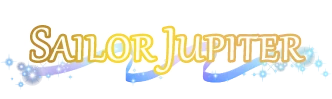
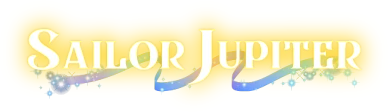
Fix selection clipping and light distribution, update 13 names and stage controls

diff --git a/Engine/select-screen.js b/Engine/select-screen.js
@@ -1,5 +1,5 @@
 import {assetUrl} from './asset-paths.js?v=02362';
-import {createLoadingScreen} from './loading-screen.js?v=loading1';
+import {createLoadingScreen} from './loading-screen.js?v=selection7';
 export function createSelectScreen(parent,api){
  const view=document.createElement('section');view.id='palaceSelection';view.hidden=true;view.style.cssText='position:absolute;inset:0;background:#05050d;z-index:2';parent.appendChild(view);
  const canvas=document.createElement('canvas');canvas.style.cssText='position:absolute;inset:0;width:100%;height:100%;z-index:1;pointer-events:none';view.appendChild(canvas);const context=canvas.getContext('2d');
@@ -8,18 +8,18 @@ export function createSelectScreen(parent,api){
  function countEntries(value){return value.file?1:Object.values(value).reduce((sum,entry)=>sum+countEntries(entry),0)}
  const hardwareValues=['3do','snes','saturn'],commandValues=['normal','auto'];
  let data,assets,stage3D,phase='p1',targetMode='vs',choices=['SailorVenus','SailorVenus'],stage='training',cursor=16,hardware=['3do','3do'],command=['normal','normal'],confirmed=new Set(),ticks=0,lastTime;
- const stageReady=(api.createStage?Promise.resolve({createSelectStage:api.createStage}):import('../Stage/Select/select-stage.js?v=loading1')).then(async module=>{const candidate=module.createSelectStage(view);if(!candidate)return;await candidate.ready;stage3D=candidate}).catch(error=>console.error('Selection 3D stage',error));
- async function loadEntries(value){if(value.file){const image=new Image();image.src=assetUrl('./'+value.file+'?v=loading1');await image.decode();loading.update(++completed/total);return {...value,image}}const result=Array.isArray(value)?[]:{};for(const key of Object.keys(value))result[key]=await loadEntries(value[key]);return result}
- const ready=Promise.all(['Data/Select/select-screen.json','Data/Select/selection-assets.json'].map(path=>fetch(assetUrl('./'+path+'?v=loading1')).then(response=>{if(!response.ok)throw Error('Selection data '+path);return response.json()}))).then(async ([config,manifest])=>{total=countEntries(config.background)+countEntries(manifest)+1;data={...config,background:await loadEntries(config.background)};assets=await loadEntries(manifest);await stageReady;loading.update(1);loaded=true;loading.hide();render()}).catch(error=>{loadError=error;if(!view.hidden)loading.fail(error,()=>{hide();api.back()});throw error});
+ const stageReady=(api.createStage?Promise.resolve({createSelectStage:api.createStage}):import('../Stage/Select/select-stage.js?v=selection7')).then(async module=>{const candidate=module.createSelectStage(view);if(!candidate)return;await candidate.ready;stage3D=candidate}).catch(error=>console.error('Selection 3D stage',error));
+ async function loadEntries(value){if(value.file){const image=new Image();image.src=assetUrl('./'+value.file+'?v=selection7');await image.decode();loading.update(++completed/total);return {...value,image}}const result=Array.isArray(value)?[]:{};for(const key of Object.keys(value))result[key]=await loadEntries(value[key]);return result}
+ const ready=Promise.all(['Data/Select/select-screen.json','Data/Select/selection-assets.json'].map(path=>fetch(assetUrl('./'+path+'?v=selection7')).then(response=>{if(!response.ok)throw Error('Selection data '+path);return response.json()}))).then(async ([config,manifest])=>{total=countEntries(config.background)+countEntries(manifest)+1;data={...config,background:await loadEntries(config.background)};assets=await loadEntries(manifest);await stageReady;loading.update(1);loaded=true;loading.hide();render()}).catch(error=>{loadError=error;if(!view.hidden)loading.fail(error,()=>{hide();api.back()});throw error});
  function player(){return phase.startsWith('p2')?1:0}
  function selectPlayer(target){phase='p'+(target+1);cursor=data.cells.findIndex(cell=>cell.id===choices[target]&&cell.available);render()}
  function discPosition(entry){if(!stage3D)return entry;const focal=360/Math.tan(Math.PI/12),scale=Math.sqrt((8*8-1.4*1.4)/(7.2*7.2-1.4*1.4)),previousY=360-.2/8*focal,nextY=360-.15/7.2*focal;return {x:640+(entry.x-640)*scale,y:nextY+(entry.y-previousY)*scale,w:entry.w*scale,h:entry.h*scale}}
- function draw(){if(!assets||view.hidden)return;canvas.width=Math.round(innerWidth*devicePixelRatio);canvas.height=Math.round(innerHeight*devicePixelRatio);const fit=Math.min(innerWidth/1280,innerHeight/720);context.setTransform(devicePixelRatio,0,0,devicePixelRatio,0,0);context.clearRect(0,0,innerWidth,innerHeight);if(!stage3D){context.fillStyle='#05050d';context.fillRect(0,0,innerWidth,innerHeight)}context.translate((innerWidth-1280*fit)/2,(innerHeight-720*fit)/2);context.scale(fit,fit);
+ function draw(){if(!assets||view.hidden)return;canvas.width=Math.round(innerWidth*devicePixelRatio);canvas.height=Math.round(innerHeight*devicePixelRatio);const fit=Math.min(innerWidth/1280,innerHeight/720);context.setTransform(devicePixelRatio,0,0,devicePixelRatio,0,0);context.clearRect(0,0,innerWidth,innerHeight);if(!stage3D){context.fillStyle='#05050d';context.fillRect(0,0,innerWidth,innerHeight)}context.translate((innerWidth-1280*fit)/2,(innerHeight-720*fit)/2);context.scale(fit,fit);context.beginPath();context.rect(0,0,1280,720);context.clip();
   for(const key of stage3D?['2200,0']:['2000,0','2001,0','2200,0']){const layer=data.background.find(entry=>entry.key===key);if(layer)context.drawImage(layer.image,640-layer.axisX,-layer.axisY)}
   for(const [identifier,entry] of Object.entries(assets.characters)){if(entry.disc){context.save();context.globalAlpha=data.cells.some(cell=>cell.id===identifier&&cell.available)?1:.4;const position=discPosition(entry.disc);context.drawImage(entry.disc.image,position.x,position.y,position.w,position.h);context.restore()}}
   stage3D?.drawSurfaceGlares(context);
-  for(const target of [0,1]){const entry=assets.characters[choices[target]],position=data.settings['p'+(target+1)+'.face.offset'].split(',').map(Number),anchor=position[0];for(const kind of ['portrait','name']){const item=entry[kind];if(item)context.drawImage(item.image,anchor-640+item.x,kind==='portrait'?item.y+position[1]:580+(52.5-item.h)/2,item.w,item.h)}}
-  const title=assets.stages[({training:'Training',moon:'MPalace',mercury:'Library',mars:'Shrine',pluto:'SDoor',swatheshia:'SThrone'}[stage])];if(phase==='stage'&&title){const item=title[String(Math.floor(ticks/4)%2)]||title['0'];context.drawImage(item.image,item.x,item.y,item.w,item.h)}
+  for(const target of [0,1]){const entry=assets.characters[choices[target]],position=data.settings['p'+(target+1)+'.face.offset'].split(',').map(Number),anchor=position[0];for(const kind of ['portrait','name']){const item=entry[kind];if(item)context.drawImage(item.image,kind==='name'?anchor-item.w/2:anchor-640+item.x,kind==='portrait'?item.y+position[1]:580+(52.5-item.h)/2,item.w,item.h)}}
+  const title=stageTitle();if(phase==='stage'&&title){const item=title[String(Math.floor(ticks/4)%2)]||title['0'];context.drawImage(item.image,item.x,item.y,item.w,item.h)}
  }
  function button(label,handler,style=''){const element=document.createElement('button');element.type='button';element.textContent=label;element.style.cssText='position:absolute;border:1px solid #e4ca81;background:#0a163be8;color:#fff;border-radius:8px;font:18px system-ui;padding:6px;'+style;element.addEventListener('click',handler);controls.appendChild(element);return element}
  function artworkButton(key,label,handler,left,top,scale=.75){const entry=assets.buttons[key],width=entry.w*scale,height=entry.h*scale;const element=button('',handler,'left:'+(left-width/2)+'px;top:'+top+'px;width:'+width+'px;height:'+height+'px;background:transparent;border:0;padding:0;touch-action:manipulation;transition:transform 80ms');element.setAttribute('aria-label',label);const image=document.createElement('img');image.src=entry.image.src;image.alt=label;image.draggable=false;image.style.cssText='width:100%;height:100%;pointer-events:none';element.appendChild(image);element.addEventListener('pointerdown',event=>{if(element.disabled)return;element.style.transform='scale(.9)';element.setPointerCapture(event.pointerId)});for(const event of ['pointerup','pointercancel','lostpointercapture','blur'])element.addEventListener(event,()=>{element.style.transform='scale(1)'});return element}
@@ -30,17 +30,19 @@ export function createSelectScreen(parent,api){
  function back(){if(phase==='stage'){confirmed.delete(targetMode==='training'?0:1);phase=targetMode==='training'?'p1command':'p2command'}else if(phase.endsWith('command'))phase='p'+(player()+1)+'hardware';else if(phase.endsWith('hardware'))phase='p'+(player()+1);else if(player()===1){confirmed.delete(0);phase='p1command'}else{hide();api.back();return}ticks=0;render()}
  function choose(value,target=player(),kind){if(confirmed.has(target)&&phase!=='stage')return;if(kind==='hardware'||(!kind&&phase.endsWith('hardware')))hardware[target]=value;else if(kind==='command'||(!kind&&phase.endsWith('command')))command[target]=value;else if(phase==='stage')stage=value;else{if(!data.cells[value]?.available)return;cursor=value;choices[target]=data.cells[value].id}ticks=0;render()}
  function cycle(target,kind){const values=kind==='hardware'?hardwareValues:commandValues,current=kind==='hardware'?hardware[target]:command[target];choose(values[(values.indexOf(current)+1)%values.length],target,kind)}
+ function stageTitle(){return assets.stages[({training:'Training',moon:'MPalace',mercury:'Library',mars:'Shrine',pluto:'SDoor',swatheshia:'SThrone'}[stage])]}
+ function cycleStage(direction){const values=data.stages.filter(entry=>entry.available).map(entry=>entry.id);choose(values[(values.indexOf(stage)+direction+values.length)%values.length])}
  function render(){if(view.hidden)return;controls.replaceChildren();if(!loaded)return;
   if(phase!=='stage'){
    for(const target of targetMode==='training'?[0]:[0,1]){const anchor=Number(data.settings['p'+(target+1)+'.face.offset'].split(',')[0]);button('',()=>selectPlayer(target),'left:'+(anchor-170)+'px;top:100px;width:340px;height:390px;background:transparent;border:0').setAttribute('aria-label',target?'Select right character':'Select left character');for(const [kind,key,column] of [['hardware',hardware[target],0],['command',command[target],1]]){const element=artworkButton(key,'P'+(target+1)+' '+kind,()=>cycle(target,kind),anchor-100+column*200,555-assets.buttons[key].h*.675/2,.675);element.id=kind+'Selection'+target;element.disabled=confirmed.has(target);element.style.filter=confirmed.has(target)?'grayscale(.5)':phase==='p'+(target+1)+kind?'drop-shadow(0 0 8px white)':'none'}const element=artworkButton(targetMode==='training'?'next':'confirm','P'+(target+1)+' '+(targetMode==='training'?'Next':'Confirm'),()=>targetMode==='training'?next():touchConfirm(target),anchor,655);element.id='confirmSelection'+target;element.style.filter=confirmed.has(target)?'grayscale(.5)':'none';element.setAttribute('aria-pressed',String(confirmed.has(target)))}
    for(const [index,cell] of data.cells.entries()){const sourceDisc=assets.characters[cell.id]?.disc;if(!sourceDisc)continue;const disc=discPosition(sourceDisc);const element=button('',()=>choose(index,player(),'character'),'left:'+disc.x+'px;top:'+disc.y+'px;width:'+disc.w+'px;height:'+disc.h+'px;background:transparent;padding:0');element.dataset.character=cell.id;element.disabled=!cell.available||confirmed.has(player());element.title=cell.id+(cell.available?'':' · 未開放');element.style.border='none'}
 
-  }else{data.stages.forEach((entry,index)=>{const element=button(entry.name,()=>choose(entry.id),'left:480px;top:'+(180+index*57)+'px;width:320px;height:46px');element.dataset.stage=entry.id;element.disabled=!entry.available});artworkButton('next','Start Fight',confirm,710,610).id='startSelection'}
+  }else{const title=stageTitle(),item=title?.['0'];if(item){const element=button('',()=>cycleStage(1),'left:'+item.x+'px;top:'+item.y+'px;width:'+item.w+'px;height:'+item.h+'px;background:transparent;border:0;padding:0');element.id='stageTitleSelection';element.setAttribute('aria-label','Change stage')}artworkButton('next','Next',confirm,640,610).id='startSelection'}
   button('EXIT',()=>{hide();api.back()},'left:20px;top:20px;width:100px').id='exitSelection';resize();
  }
  function show(mode){targetMode=mode;phase='p1';confirmed.clear();hardware=['3do','3do'];command=['normal','normal'];choices=['SailorVenus','SailorVenus'];stage='training';cursor=data?.cells.findIndex(entry=>entry.available)??16;ticks=0;lastTime=undefined;view.hidden=false;if(!loaded){loading.show();loading.update(completed/total);if(loadError)loading.fail(loadError,()=>{hide();api.back()})}stage3D?.setVisible(true);render()}
  function hide(){view.hidden=true;loading.hide();lastTime=undefined;stage3D?.setVisible(false)}
- function handleKey(event){if(view.hidden)return false;if(!loaded)return true;if(['Escape','KeyX','KeyS','Numpad2','NumpadDecimal'].includes(event.code)){if(!event.repeat)back();return true}if(['Enter','KeyZ','KeyA','Numpad1','Numpad0'].includes(event.code)){if(!event.repeat)confirm();return true}if(['ArrowLeft','ArrowRight','ArrowUp','ArrowDown','Numpad4','Numpad6','Numpad8','Numpad5'].includes(event.code)){if(assets){const modePhase=phase.endsWith('hardware')||phase.endsWith('command');if(modePhase&&!['ArrowUp','ArrowDown','Numpad8','Numpad5'].includes(event.code))return true;const direction=['ArrowLeft','ArrowUp','Numpad4','Numpad8'].includes(event.code)?-1:1,values=phase==='stage'?data.stages.filter(entry=>entry.available).map(entry=>entry.id):phase.endsWith('hardware')?hardwareValues:phase.endsWith('command')?commandValues:data.cells.map((entry,index)=>entry.available?index:-1).filter(index=>index>=0),current=phase==='stage'?stage:phase.endsWith('hardware')?hardware[player()]:phase.endsWith('command')?command[player()]:cursor;choose(values[(values.indexOf(current)+direction+values.length)%values.length])}return true}return false}
+ function handleKey(event){if(view.hidden)return false;if(!loaded)return true;if(['Escape','KeyX','KeyS','Numpad2','NumpadDecimal'].includes(event.code)){if(!event.repeat)back();return true}if(['Enter','KeyZ','KeyA','Numpad1','Numpad0'].includes(event.code)){if(!event.repeat)confirm();return true}if(['ArrowLeft','ArrowRight','ArrowUp','ArrowDown','Numpad4','Numpad6','Numpad8','Numpad5'].includes(event.code)){if(assets){if(phase==='stage'){if(['ArrowLeft','ArrowRight','Numpad4','Numpad6'].includes(event.code))cycleStage(['ArrowLeft','Numpad4'].includes(event.code)?-1:1);return true}const modePhase=phase.endsWith('hardware')||phase.endsWith('command');if(modePhase&&!['ArrowUp','ArrowDown','Numpad8','Numpad5'].includes(event.code))return true;const direction=['ArrowLeft','ArrowUp','Numpad4','Numpad8'].includes(event.code)?-1:1,values=phase==='stage'?data.stages.filter(entry=>entry.available).map(entry=>entry.id):phase.endsWith('hardware')?hardwareValues:phase.endsWith('command')?commandValues:data.cells.map((entry,index)=>entry.available?index:-1).filter(index=>index>=0),current=phase==='stage'?stage:phase.endsWith('hardware')?hardware[player()]:phase.endsWith('command')?command[player()]:cursor;choose(values[(values.indexOf(current)+direction+values.length)%values.length])}return true}return false}
  function animate(time){if(!view.hidden){const dt=lastTime===undefined?0:Math.min((time-lastTime)/1000,.05);ticks+=dt*60;lastTime=time;stage3D?.setVisible(true);stage3D?.render(dt);draw()}requestAnimationFrame(animate)}requestAnimationFrame(animate);window.addEventListener('resize',resize);
  return {ready,show,hide,handleKey,draw,snapshot:()=>({phase,mode:targetMode,players:[...choices],hardware:[...hardware],command:[...command],confirmed:[...confirmed],stage,visible:!view.hidden,effects:stage3D?.snapshot()})};
 }

diff --git a/Stage/Select/select-stage.js b/Stage/Select/select-stage.js
@@ -1,7 +1,7 @@
 import * as THREE from 'three';
 import {GLTFLoader} from 'three/addons/loaders/GLTFLoader.js';
 import {assetUrl} from '../../Engine/asset-paths.js?v=02362';
-import {effectPulse} from './select-effects-timing.js?v=selection6';
+import {effectPulse} from './select-effects-timing.js?v=selection7';
 
 export function createSelectStage(parent){
  const renderer=new THREE.WebGLRenderer({antialias:true,powerPreference:'low-power'});renderer.setPixelRatio(Math.min(devicePixelRatio,1.5));renderer.outputColorSpace=THREE.SRGBColorSpace;renderer.domElement.id='selectStage3D';renderer.domElement.style.cssText='position:absolute;pointer-events:none';parent.appendChild(renderer.domElement);
@@ -21,11 +21,11 @@ export function createSelectStage(parent){
   surfaceGlares.push({x:-1.06,y:.83,size:195,phase:0},{x:.85,y:-.86,size:126,phase:2.1});
   const count=96,seeds=new Float32Array(count*3),sizes=new Float32Array(count),kinds=new Float32Array(count);for(let index=0;index<count;index++){seeds[index*3]=((index*0.61803398875)%1)*11-5.5;seeds[index*3+1]=(index*0.38196601125)%1;seeds[index*3+2]=((index*0.754877666)%1)*2-1;const variation=(index*0.41421356)%1;sizes[index]=(3+variation*5)*(0.55+((index*0.73205081)%1)*1.1);kinds[index]=index%3===0?0:1}
   const geometry=new THREE.BufferGeometry();geometry.setAttribute('position',new THREE.BufferAttribute(seeds,3));geometry.setAttribute('pointSize',new THREE.BufferAttribute(sizes,1));geometry.setAttribute('pointKind',new THREE.BufferAttribute(kinds,1));
-  const material=new THREE.ShaderMaterial({uniforms:{time:{value:0},pixelRatio:{value:renderer.getPixelRatio()},viewportScale:{value:1},viewportHeight:{value:720},particleScale:{value:2}},vertexShader:'uniform float time;uniform float pixelRatio;uniform float viewportScale;uniform float viewportHeight;uniform float particleScale;attribute float pointSize;attribute float pointKind;varying float brightness;varying float kind;varying float impactLevel;void main(){float phase=fract(position.y+time*(0.085+pointSize*0.003));float travel=min(phase/0.82,1.0);vec3 point=vec3(position.x+sin(position.y*6.283+travel*2.0)*0.08,5.4,position.z+0.4);float impact=smoothstep(0.82,0.89,phase);impactLevel=impact;brightness=smoothstep(0.0,0.06,phase)*(1.0-smoothstep(0.90,1.0,phase));kind=pointKind;vec4 projected=modelViewMatrix*vec4(point,1.0);gl_Position=projectionMatrix*projected;float landingInset=20.0+40.0*fract(sin(position.y*127.1+position.x*311.7)*43758.5453);gl_Position.y=mix(gl_Position.y,(-1.0+2.0*landingInset/viewportHeight)*gl_Position.w,travel);gl_Position.x=clamp(gl_Position.x/gl_Position.w,-0.94,0.94)*gl_Position.w;gl_PointSize=pointSize*particleScale*pixelRatio*viewportScale*(1.0+(1.0-pointKind)*impact*1.5);}',fragmentShader:'varying float brightness;varying float kind;void main(){vec2 point=gl_PointCoord-0.5;float radius=length(point);float angle=atan(point.y,point.x);float core=exp(-radius*radius*65.0);float glow=exp(-radius*radius*18.0)*0.3;float tip=0.045+0.43*pow(abs(cos(angle*4.0)),24.0);float star=(1.0-smoothstep(tip*0.5,tip,radius))*(1.0-smoothstep(0.02,0.49,radius));float alpha=mix(core+glow,star+glow*0.3,kind);gl_FragColor=vec4(vec3(0.72,0.94,1.0),alpha*brightness*0.8);}',transparent:true,blending:THREE.AdditiveBlending,depthWrite:false,toneMapped:false});particles=new THREE.Points(geometry,material);particles.frustumCulled=false;particles.name='SelectionFallingLights';scene.add(particles);
+  const material=new THREE.ShaderMaterial({uniforms:{time:{value:0},pixelRatio:{value:renderer.getPixelRatio()},viewportScale:{value:1},viewportHeight:{value:720},particleScale:{value:2}},vertexShader:'uniform float time;uniform float pixelRatio;uniform float viewportScale;uniform float viewportHeight;uniform float particleScale;attribute float pointSize;attribute float pointKind;varying float brightness;varying float kind;varying float impactLevel;void main(){float phase=fract(position.y+time*(0.085+pointSize*0.003));float travel=min(phase/0.82,1.0);vec3 point=vec3(position.x+sin(position.y*6.283+travel*2.0)*0.08,5.4,position.z+0.4);float impact=smoothstep(0.82,0.89,phase);impactLevel=impact;brightness=smoothstep(0.0,0.06,phase)*(1.0-smoothstep(0.90,1.0,phase));kind=pointKind;vec4 projected=modelViewMatrix*vec4(point,1.0);gl_Position=projectionMatrix*projected;float landingInset=20.0+40.0*fract(sin(position.y*127.1+position.x*311.7)*43758.5453);gl_Position.y=mix(gl_Position.y,(-1.0+2.0*landingInset/viewportHeight)*gl_Position.w,travel);gl_Position.x=(position.x/5.5*0.90+sin(position.y*6.283+travel*2.0)*0.008)*gl_Position.w;gl_PointSize=pointSize*particleScale*pixelRatio*viewportScale*(1.0+(1.0-pointKind)*impact*1.5);}',fragmentShader:'varying float brightness;varying float kind;void main(){vec2 point=gl_PointCoord-0.5;float radius=length(point);float angle=atan(point.y,point.x);float core=exp(-radius*radius*65.0);float glow=exp(-radius*radius*18.0)*0.3;float tip=0.045+0.43*pow(abs(cos(angle*4.0)),24.0);float star=(1.0-smoothstep(tip*0.5,tip,radius))*(1.0-smoothstep(0.02,0.49,radius));float alpha=mix(core+glow,star+glow*0.3,kind);gl_FragColor=vec4(vec3(0.72,0.94,1.0),alpha*brightness*0.8);}',transparent:true,blending:THREE.AdditiveBlending,depthWrite:false,toneMapped:false});particles=new THREE.Points(geometry,material);particles.frustumCulled=false;particles.name='SelectionFallingLights';scene.add(particles);
   const haloMaterial=new THREE.ShaderMaterial({uniforms:material.uniforms,vertexShader:material.vertexShader.replace('(1.0+(1.0-pointKind)*impact*1.5)','(1.0+impact*2.0)').replace('gl_PointSize=pointSize','gl_PointSize=2.4*pointSize'),fragmentShader:'varying float brightness;varying float impactLevel;void main(){float radius=length(gl_PointCoord-0.5);float halo=exp(-radius*radius*22.0)*(1.0-smoothstep(0.35,0.50,radius));gl_FragColor=vec4(vec3(0.48,0.83,1.0),halo*brightness*0.32*(1.0+impactLevel*1.6));}',transparent:true,blending:THREE.AdditiveBlending,depthWrite:false,toneMapped:false});particleHalos=new THREE.Points(geometry,haloMaterial);particleHalos.frustumCulled=false;particleHalos.name='SelectionAirborneLightHalos';particleHalos.renderOrder=6;particles.renderOrder=7;scene.add(particleHalos);
  }
  function resize(){if(!camera)return;const fit=Math.min(innerWidth/1280,innerHeight/720),width=1280*fit,height=720*fit;renderer.setSize(width,height,false);Object.assign(renderer.domElement.style,{width:width+'px',height:height+'px',left:(innerWidth-width)/2+'px',top:(innerHeight-height)/2+'px'});camera.aspect=width/height;camera.updateProjectionMatrix();if(particles){particles.material.uniforms.viewportScale.value=fit;particles.material.uniforms.viewportHeight.value=height}}
- const ready=Promise.all([new THREE.TextureLoader().loadAsync(assetUrl('./Stage/Select/background.webp?v=selection6')),fetch(assetUrl('./Stage/Select/select-stage.json?v=selection6')).then(response=>{if(!response.ok)throw Error('Select stage settings');return response.json()}),fetch(assetUrl('./Stage/Select/Select.glb.gz?v=selection6')).then(response=>{if(!response.ok)throw Error('Select stage model');return new Response(response.body.pipeThrough(new DecompressionStream('gzip'))).arrayBuffer()})]).then(async ([background,config,buffer])=>{background.colorSpace=THREE.SRGBColorSpace;scene.background=background;settings=config;camera=new THREE.PerspectiveCamera(config.fov,16/9,.01,1000);camera.position.fromArray(config.cameraPosition);const model=await new GLTFLoader().parseAsync(buffer,'./');scene.add(model.scene);sphere=model.scene.getObjectByName(config.target);if(!sphere)model.scene.traverse(node=>{if(node.userData.name===config.target)sphere=node});if(!sphere)throw Error('Selection Sphere.004 missing');model.scene.traverse(node=>{if(!node.isMesh)return;for(const material of Array.isArray(node.material)?node.material:[node.material]){if(/^sky/i.test(node.name))material.depthWrite=false;if(node===sphere)material.side=THREE.FrontSide}});mixer=new THREE.AnimationMixer(model.scene);for(const clip of model.animations)mixer.clipAction(clip).play();addEffects();resize();render(0)});
+ const ready=Promise.all([new THREE.TextureLoader().loadAsync(assetUrl('./Stage/Select/background.webp?v=selection7')),fetch(assetUrl('./Stage/Select/select-stage.json?v=selection7')).then(response=>{if(!response.ok)throw Error('Select stage settings');return response.json()}),fetch(assetUrl('./Stage/Select/Select.glb.gz?v=selection7')).then(response=>{if(!response.ok)throw Error('Select stage model');return new Response(response.body.pipeThrough(new DecompressionStream('gzip'))).arrayBuffer()})]).then(async ([background,config,buffer])=>{background.colorSpace=THREE.SRGBColorSpace;scene.background=background;settings=config;camera=new THREE.PerspectiveCamera(config.fov,16/9,.01,1000);camera.position.fromArray(config.cameraPosition);const model=await new GLTFLoader().parseAsync(buffer,'./');scene.add(model.scene);sphere=model.scene.getObjectByName(config.target);if(!sphere)model.scene.traverse(node=>{if(node.userData.name===config.target)sphere=node});if(!sphere)throw Error('Selection Sphere.004 missing');model.scene.traverse(node=>{if(!node.isMesh)return;for(const material of Array.isArray(node.material)?node.material:[node.material]){if(/^sky/i.test(node.name))material.depthWrite=false;if(node===sphere)material.side=THREE.FrontSide}});mixer=new THREE.AnimationMixer(model.scene);for(const clip of model.animations)mixer.clipAction(clip).play();addEffects();resize();render(0)});
  const center=new THREE.Vector3();
  function render(dt){if(!camera||!mixer)return;accumulator+=Math.max(0,dt);const steps=Math.floor((accumulator+1e-9)*30);if(!steps&&renderedFrames)return;const elapsed=steps/30;accumulator-=elapsed;time+=elapsed;mixer.update(elapsed);sphere.getWorldPosition(center);effects.position.copy(center);for(const mesh of [innerGlow,outerGlow,glare,...rearGlares]){mesh.quaternion.copy(camera.quaternion);mesh.material.uniforms.time.value=time}glare.material.uniforms.beamStrength.value=Array.from({length:7},(_,index)=>effectPulse(Math.round(time*60),index));rearGlares[0].material.uniforms.flareAlpha.value=effectPulse(Math.round(time*60),2,'star');rearGlares[0].position.x=1.12-20*(camera.position.z-center.z+.65)/(360/Math.tan(THREE.MathUtils.degToRad(settings.fov/2)));innerGlow.position.z=.12;innerGlow.renderOrder=10;outerGlow.position.z=.1;outerGlow.renderOrder=11;glare.position.z=-1.6;glare.renderOrder=5;glare.material.depthTest=false;particles.material.uniforms.time.value=time;renderer.render(scene,camera);renderedFrames++}
  function drawSurfaceGlares(context){if(!camera||!sphere)return;for(const flare of surfaceGlares){const point=center.clone().add(new THREE.Vector3(flare.x,flare.y,Math.sqrt(Math.max(0,1.4*1.4-flare.x*flare.x-flare.y*flare.y))+.04)).project(camera),x=(point.x+1)*640,y=(1-point.y)*360,pulse=effectPulse(Math.round(time*60),surfaceGlares.indexOf(flare),'star'),radius=flare.size/2;context.save();context.translate(x,y);context.globalAlpha=pulse;context.globalCompositeOperation='lighter';const halo=context.createRadialGradient(0,0,0,0,0,radius*.95);halo.addColorStop(0,'rgba(255,255,255,0.95)');halo.addColorStop(.12,'rgba(210,245,255,0.65)');halo.addColorStop(1,'rgba(150,225,255,0)');context.fillStyle=halo;context.fillRect(-radius,-radius,radius*2,radius*2);context.beginPath();for(let index=0;index<16;index++){const angle=index*Math.PI/8-Math.PI/2,length=index%2?radius*.055:radius*(index%4===0?1:.65),pointX=Math.cos(angle)*length,pointY=Math.sin(angle)*length;if(!index)context.moveTo(pointX,pointY);else context.lineTo(pointX,pointY)}context.closePath();context.fillStyle='rgba(235,250,255,0.9)';context.fill();context.restore()}}

diff --git a/index.html b/index.html
@@ -50,7 +50,7 @@ import {createFightHud} from './Engine/fight-hud-runtime.js?v=02362';
 import {createScoreRuntime} from './Engine/score-runtime.js?v=02362';
 import {createRoundFlow} from './Engine/round-flow-runtime.js?v=02362';
 import {createRoundView} from './Engine/round-flow-view.js?v=02362';
-import {createPalaceMenu} from './Engine/palace-menu.js?v=loading1';
+import {createPalaceMenu} from './Engine/palace-menu.js?v=selection7';
 const fightHud=createFightHud();fightHud.ready.catch(error=>showRuntimeError(error));
 const timerMode=document.createElement('select');timerMode.id='timerMode';timerMode.title='Training timer';timerMode.innerHTML='<option value="infinite">Timer ∞</option><option value="99">Timer 99</option>';document.querySelector('#inputPanel').appendChild(timerMode);timerMode.addEventListener('change',()=>{fightHud.setMode(timerMode.value);timerMode.blur()});
 for(let seconds=15;seconds<99;seconds++){const option=document.createElement('option');option.value=String(seconds);option.textContent='Timer '+seconds;timerMode.appendChild(option)}

diff --git a/Engine/palace-menu.js b/Engine/palace-menu.js
@@ -1,7 +1,7 @@
 import {assetUrl} from './asset-paths.js?v=02362';
 import {createTitleStage} from '../Stage/Title/title-stage.js?v=02362-camera2';
 import {createLogoIntro} from '../Data/Logo/logo-intro.js?v=loading1';
-import {createSelectScreen} from './select-screen.js?v=loading1';
+import {createSelectScreen} from './select-screen.js?v=selection7';
 import {createLoadingScreen} from './loading-screen.js?v=loading1';
 
 export function createPalaceMenu(api){

diff --git a/Tools/export_selection_assets.py b/Tools/export_selection_assets.py
@@ -14,8 +14,8 @@ def export(path, destination):
     image.crop(bounds).save(destination, format='WEBP', quality=90, method=6)
     return {'file': destination.relative_to(root).as_posix(), 'x': bounds[0], 'y': bounds[1], 'w': bounds[2]-bounds[0], 'h': bounds[3]-bounds[1]}
 
-for name in ['Moon', 'CMoon', 'Mercury', 'Mars', 'Jupiter', 'Venus', 'Uranus', 'Neptune', 'Pluto', 'Saturn', 'Swatheshia']:
-    identifier = 'LadySwatheshia' if name == 'Swatheshia' else 'SailorChibiMoon' if name == 'CMoon' else 'Sailor'+name
+for name in ['Moon', 'CMoon', 'Mercury', 'Mars', 'Jupiter', 'Venus', 'Uranus', 'Neptune', 'Pluto', 'Saturn', 'Swatheshia', 'SMoon', 'TMask']:
+    identifier = {'Swatheshia': 'LadySwatheshia', 'CMoon': 'SailorChibiMoon', 'SMoon': 'SailorSuperMoon', 'TMask': 'TuxedoMask'}.get(name, 'Sailor'+name)
     entries = {}
     for kind, filename in [('portrait', 'Portrait '+('Nep' if name == 'Neptune' else name)+'.png'), ('name', 'Name '+name+'.png'), ('disc', name+'900000.png')]:
         path = source / filename

diff --git a/Docs/selection-assets.md b/Docs/selection-assets.md
@@ -8,7 +8,9 @@ Hardware/command buttons use 90% of their previous 0.75 display scale (0.675) an
 
 Keyboard order: P1 character → hardware → command, then P2 character → hardware → command in VS/Watch, then stage. Training proceeds from P1 command to stage. A/X (A/Z on the default keyboard; Numpad1/0 for P2) confirms; B/Y (S/X; Numpad2/Decimal) returns one step. Enter/Escape remain aliases. All arrows navigate characters; only up/down changes hardware/command. Both players' hardware and command choices carry into combat, scoring and subsequent round resets.
 
-All supplied character artwork is included, but only Venus and Training are playable until additional fighters and stages are implemented.
+All 13 supplied character names are included, including Super Moon and Tuxedo Mask. Only Venus and Training are playable until additional fighters and stages are implemented. Stage selection has no list: left/right changes available stages, touching the title cycles them, and A/X/Enter or Next confirms. B/Y/Escape consistently steps back.
+
+The portrait/name/disc canvas is clipped to the fitted 1280×720 camera frame, preserving black letterbox/pillarbox areas. Falling light horizontal positions use uniformly distributed screen coordinates rather than clamping out-of-view world positions onto the two sides. Their 20–60px camera-bottom landing inset remains unchanged.
 
 The selection background now uses Stage/Select/Select.glb.gz, converted from Select v1.glb with WEBP textures (maximum 2048 pixels). Its three original animation clips are preserved. Sphere.004 receives a cyan inner rim and soft outer halo; seven rear glare rays gently vary in intensity and direction. Ninety-six deterministic light particles descend and flare near the lower edge. Effects are additive shaders rather than full-screen bloom, so portraits and text are not blurred. Existing disc artwork remains a separate overlay. Animation stops while the selection page is hidden, and the static background remains the fallback if the 3D model cannot load.
 
